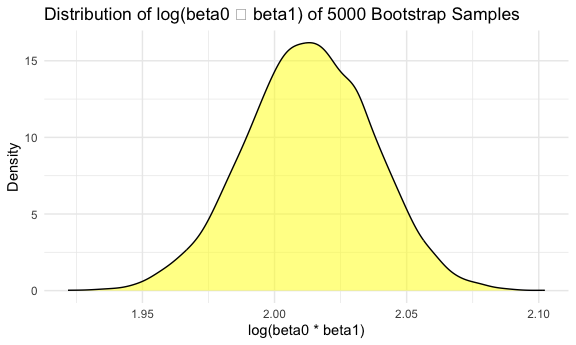
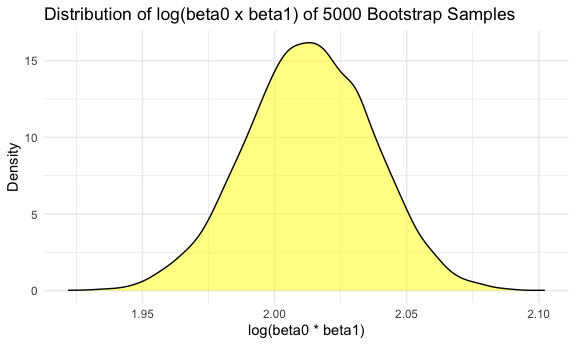
final commit

Changed region(s): [[0.4062, 0.0, 0.9062, 0.087]]

diff --git a/p8105_hw6_zg2486.md b/p8105_hw6_zg2486.md
@@ -36,12 +36,12 @@ boot_sample_results =
   mutate(
     model = map(strap, ~ lm(tmax ~ tmin, data = as_tibble(.x))),
     r_squared = map_dbl(model, ~ broom::glance(.x)[["r.squared"]]),
-    log_coef_product = map_dbl(model, ~ {
-      coef_vals <- broom::tidy(.x) %>% 
+    log_beta_product = map_dbl(model, ~ {
+      beta_vals <- broom::tidy(.x) %>% 
       
       pull(estimate)
       
-      log(coef_vals[1] * coef_vals[2])
+      log(beta_vals[1] * beta_vals[2])
     })
   )
 
@@ -60,19 +60,43 @@ r_squared_plot
 <img src="p8105_hw6_zg2486_files/figure-gfm/unnamed-chunk-2-1.png" width="90%" />
 
 ``` r
-log_coef_product_plot = 
+log_beta_product_plot = 
 boot_sample_results %>%
-  ggplot(aes(x = log_coef_product)) +
+  ggplot(aes(x = log_beta_product)) +
   geom_density(fill = "yellow", alpha = 0.5) +
-  labs(title = "Distribution of log(beta0 ∗ beta1) of 5000 Bootstrap Samples",
+  labs(title = "Distribution of log(beta0 x beta1) of 5000 Bootstrap Samples",
        x = "log(beta0 * beta1)",
        y = "Density"
        )
 
-log_coef_product_plot
+log_beta_product_plot
 ```
 
 <img src="p8105_hw6_zg2486_files/figure-gfm/unnamed-chunk-2-2.png" width="90%" />
+
+``` r
+r_squared_CI = 
+  quantile(
+    boot_sample_results %>% 
+    pull(r_squared), c(0.025, 0.975))
+
+print(paste("95% Confidence Interval for R^2:", r_squared_CI))
+```
+
+    ## [1] "95% Confidence Interval for R^2: 0.893668412197251"
+    ## [2] "95% Confidence Interval for R^2: 0.927105964467631"
+
+``` r
+log_beta_product_CI = 
+  quantile(
+    boot_sample_results %>% 
+    pull(log_beta_product), c(0.025, 0.975))
+
+print(paste("95% Confidence Interval for log(beta0 * beta1):", log_beta_product_CI))
+```
+
+    ## [1] "95% Confidence Interval for log(beta0 * beta1): 1.9649486928301" 
+    ## [2] "95% Confidence Interval for log(beta0 * beta1): 2.05888745920792"
 
 # Problem 2
 
@@ -232,7 +256,7 @@ each_city_plot =
 each_city_plot 
 ```
 
-<img src="p8105_hw6_zg2486_files/figure-gfm/unnamed-chunk-6-1.png" width="90%" />
+<img src="p8105_hw6_zg2486_files/figure-gfm/unnamed-chunk-8-1.png" width="90%" />
 New York,NY and Albuquerque, NM has the lowest and highest adjusted OR
 for solving homicides comparing male victims to female victims keeping
 all other variables fixed, respectively. We can also see lots of cities
@@ -308,7 +332,7 @@ birth_data
 
     ## `geom_smooth()` using method = 'gam' and formula = 'y ~ s(x, bs = "cs")'
 
-<img src="p8105_hw6_zg2486_files/figure-gfm/unnamed-chunk-8-1.png" width="90%" />
+<img src="p8105_hw6_zg2486_files/figure-gfm/unnamed-chunk-10-1.png" width="90%" />
 In the regression model, I assumed that baby’s birth weight would
 associate with baby’s sex, baby’s head circumference at birth, baby’s
 length at birth, father’s race, gestational age in weeks, mother’s age
@@ -352,7 +376,7 @@ cv_results_df %>%
   geom_violin()
 ```
 
-<img src="p8105_hw6_zg2486_files/figure-gfm/unnamed-chunk-9-1.png" width="90%" />
+<img src="p8105_hw6_zg2486_files/figure-gfm/unnamed-chunk-11-1.png" width="90%" />
 The “bwt” model has the lowest RMSE distribution overall, indicating
 including as much as related variables likely performs better than the
 other models in terms of prediction accuracy. The “interaction” model
